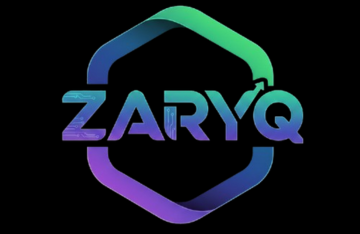
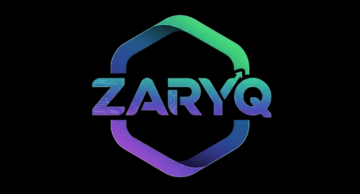
update vedio poster

Changed region(s): [[0.1528, 0.0, 0.8556, 0.9588]]

diff --git a/resources/views/welcome.blade.php b/resources/views/welcome.blade.php
@@ -181,7 +181,7 @@
 
             <div class="bg-white rounded-2xl shadow-xl overflow-hidden max-w-4xl mx-auto">
                 <div class="relative">
-                    <video controls class="w-full h-auto" poster="{{ asset('images/thumnail.png')}}">
+                    <video controls class="w-full h-auto max-h-[478px] object-cover" poster="{{ asset('images/thumnail.png')}}">
                         <source src="{{ asset ('videos/intro.mp4') }}" type="video/mp4">
                         Your browser does not support the video tag.
                     </video>
